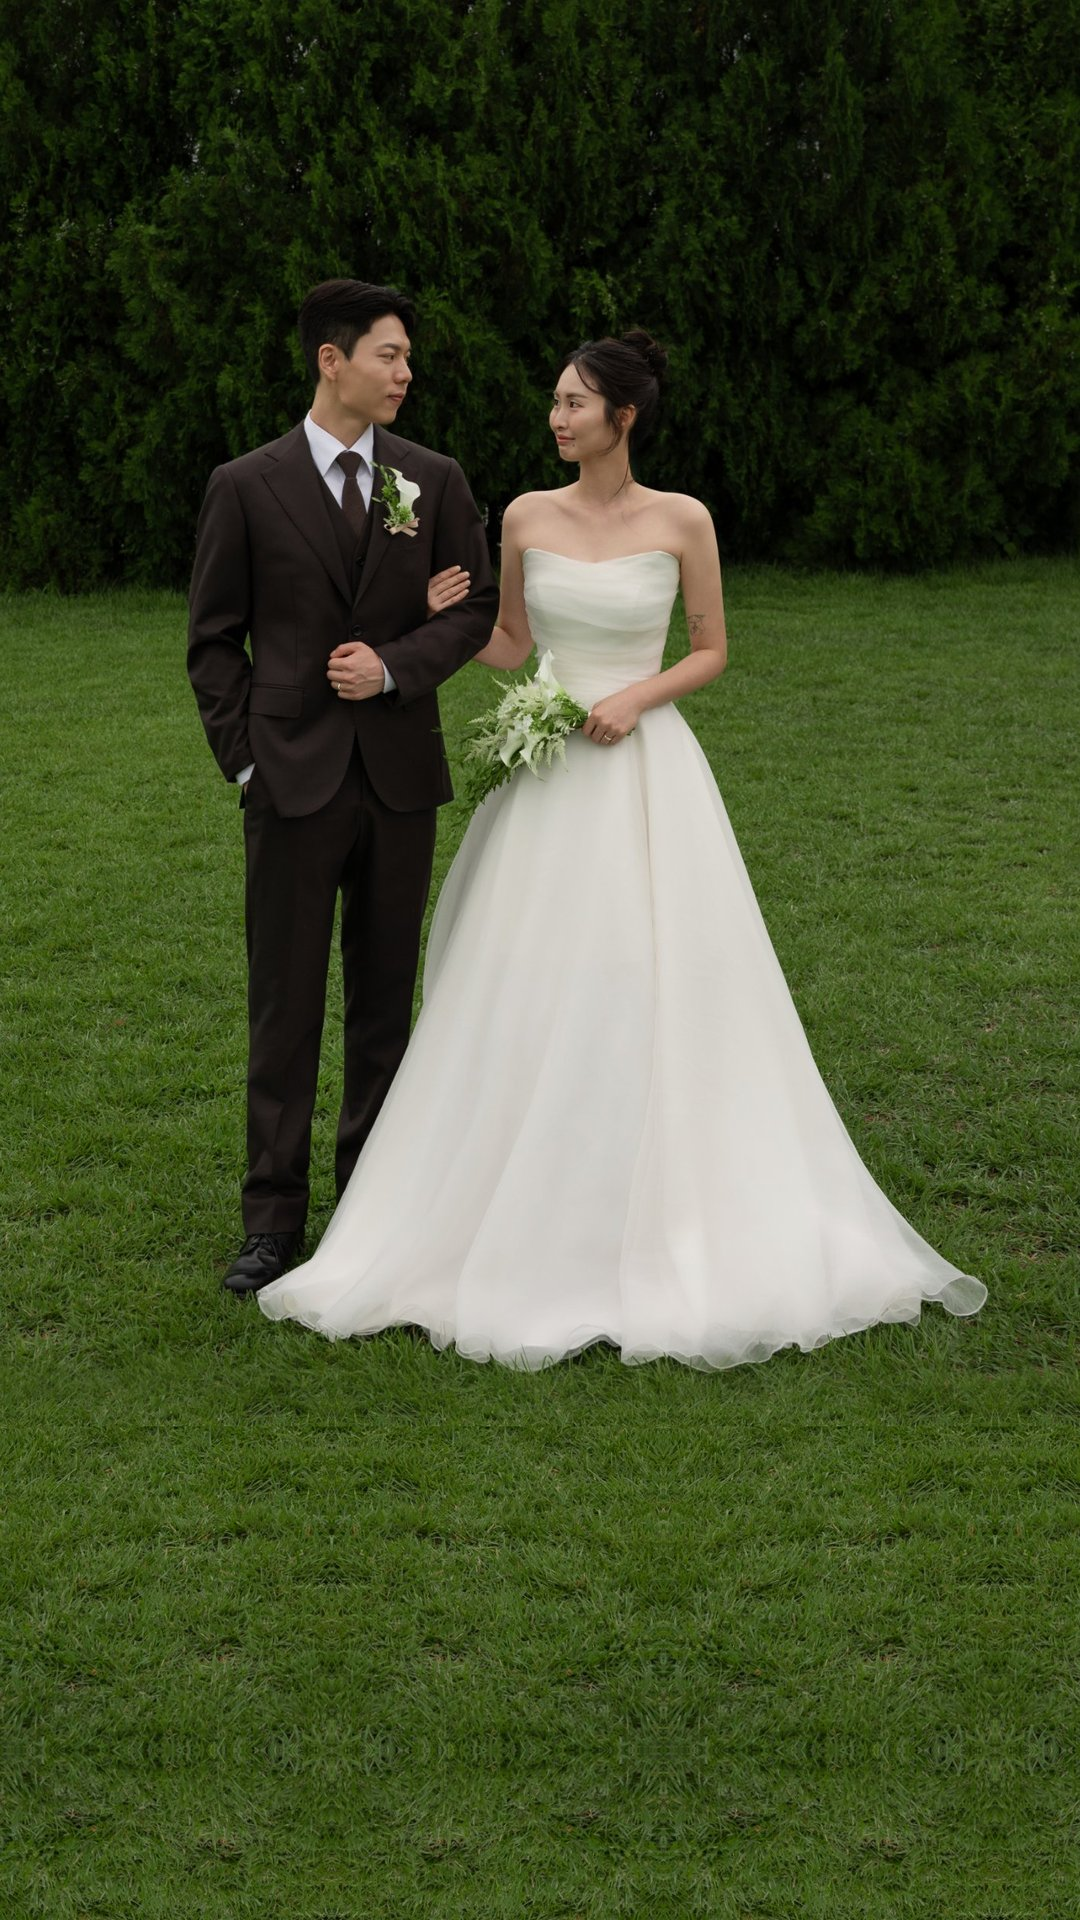
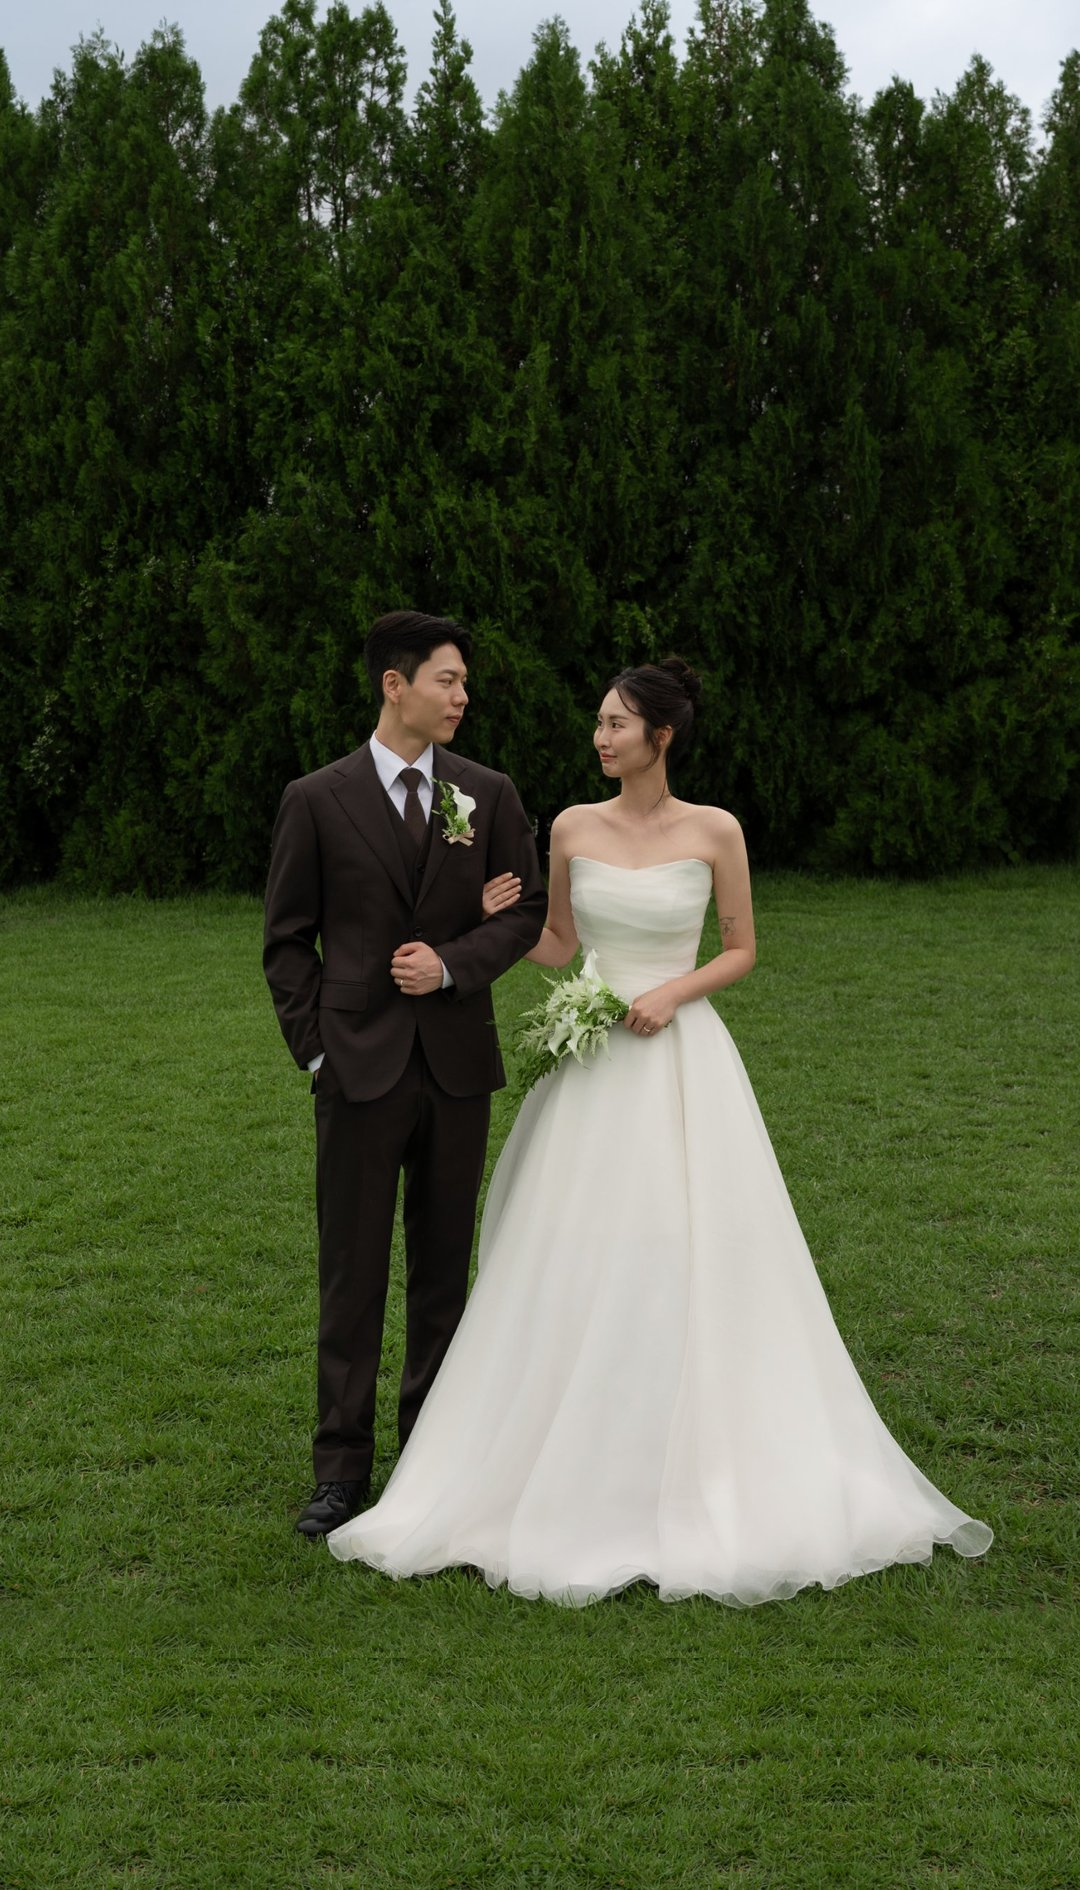
Add files via upload

diff --git a/index.html b/index.html
@@ -15,6 +15,7 @@
 <meta property="og:url" content="https://ghddodcks12-wq.github.io/jinwook-yejin/">
 <link rel="preconnect" href="https://fonts.googleapis.com">
 <link rel="preconnect" href="https://fonts.gstatic.com" crossorigin>
+<link rel="stylesheet" href="https://cdn.jsdelivr.net/gh/orioncactus/pretendard@v1.3.9/dist/web/static/pretendard.min.css">
 <link href="https://fonts.googleapis.com/css2?family=Poppins:wght@300;400;500&family=Crimson+Pro:ital,wght@0,400;1,400&family=Bona+Nova+SC&family=Mrs+Saint+Delafield&family=Gowun+Dodum&family=Noto+Sans+KR:wght@300;400;500;600&family=Noto+Serif+KR:wght@400;600&display=swap" rel="stylesheet">
 <style>
 :root{
@@ -96,21 +97,24 @@ body.intro-on{overflow:hidden}
 .mc .script span{display:block}
 .mc .script span+span{padding-left:22%}
 .mc .dates{display:flex;justify-content:space-between;font-family:var(--caps);font-size:15px;letter-spacing:.1em;margin-top:14px;padding:0 26px;text-shadow:0 0 1px rgba(90,45,0,.35),0 1px 4px rgba(90,45,0,.18)}
-.main-names{width:84%;margin-top:1%;filter:drop-shadow(0 1px 4px rgba(0,0,0,.18))}
-.main-script{width:106%;margin:0 0 0 -2%;filter:drop-shadow(0 1px 4px rgba(0,0,0,.16))}
-.main-date{font-family:var(--caps);font-size:clamp(17px,4.9vw,21px);letter-spacing:.04em;text-align:center;margin-top:2%;text-shadow:0 1px 4px rgba(0,0,0,.18)}
-.main.ready .main-names{transition-delay:.5s;transition-duration:1.6s}
+.t-wday{--src:url(assets/t-wedding-day.png);aspect-ratio:1300/352}
+.main-kicker{font-family:'Pretendard','Noto Sans KR',sans-serif;font-weight:400;font-size:clamp(11px,3.3vw,14px);letter-spacing:.9em;margin-right:-.9em;text-align:center;white-space:nowrap}
+.main-names{font-family:'Pretendard','Noto Sans KR',sans-serif;font-weight:500;font-size:clamp(24px,7vw,30px);letter-spacing:.02em;text-align:center}
+.main-script{width:102%;margin:5.5% 0 0 -1%;filter:drop-shadow(0 1px 4px rgba(0,0,0,.18))}
+.main-date{font-family:'Pretendard','Noto Sans KR',sans-serif;font-weight:400;font-size:clamp(19px,5.6vw,24px);letter-spacing:.02em;text-align:center;margin-top:1.5%;text-shadow:0 1px 4px rgba(0,0,0,.18)}
+.main.ready .main-kicker{transition-delay:.4s}
+.main.ready .main-names{transition-delay:1.3s}
 .main.ready .main-date{transition-delay:1.6s}
 .main.ready .main-script{transition-delay:.6s;transition-duration:1.8s}
 .snow{position:absolute;inset:0;z-index:1;pointer-events:none;overflow:hidden}
 .snow i{position:absolute;top:-8px;border-radius:50%;background:#FFF4D6;box-shadow:0 0 6px rgba(255,236,190,.8);opacity:0;animation:fall linear infinite}
 @keyframes fall{0%{transform:translate(0,0);opacity:0}10%{opacity:.85}90%{opacity:.7}100%{transform:translate(var(--dx),110vh);opacity:0}}
-.main{padding:0;position:relative;width:100%;aspect-ratio:9/16;overflow:hidden;color:#fff;background:#3a4433}
+.main{padding:0;position:relative;width:100%;aspect-ratio:1080/1890;overflow:hidden;color:#fff;background:#3a4433}
 .main-photo{position:absolute;left:0;right:0;bottom:0;top:auto;width:100%;height:var(--photo-h,114%);object-fit:cover;object-position:var(--focus,50% 50%);transform:scale(1.04);transition:transform 3.4s var(--ease),opacity 1s;opacity:0}
 .main.ready .main-photo{opacity:1;transform:none}
 .main::after{content:"";position:absolute;inset:0;pointer-events:none;
   background:linear-gradient(180deg,rgba(20,30,18,0) 70%,rgba(20,30,18,.12) 100%)}
-.mc{position:absolute;inset:0;z-index:2;display:flex;flex-direction:column;padding:5% 0 6%;color:var(--main-ink,#E38A3C);text-align:left;font-family:var(--en);text-shadow:0 1px 10px rgba(0,0,0,.18)}
+.mc{position:absolute;inset:0;z-index:2;display:flex;flex-direction:column;padding:5.5% 0 9.5%;color:var(--main-ink,#E38A3C);text-align:left;font-family:var(--en);text-shadow:0 1px 10px rgba(0,0,0,.18)}
 .mc .big{font-size:clamp(36px,10.6vw,44px);font-weight:300;line-height:1.08;letter-spacing:-.01em}
 .mc .tiny{font-size:10px;font-weight:500;letter-spacing:.06em}
 .mc .top{display:flex;justify-content:space-between;align-items:flex-end}
@@ -213,7 +217,7 @@ body.intro-on{overflow:hidden}
 /* ═════ 사진 배너 ═════ */
 .banner{padding:28px 20px 80px;background:var(--paper)}
 .banner .frame{height:300px;overflow:hidden}
-.banner img{width:100%;height:122%;object-fit:cover;object-position:50% 45%;will-change:transform}
+.banner img{width:100%;height:122%;object-fit:cover;object-position:50% 25%;will-change:transform}
 .banner .when{font-family:var(--en);font-size:14px;font-weight:400;color:var(--ink-2);line-height:1.75;margin-top:58px}
 .banner-brush{width:70%;margin-top:34px;color:var(--moss)}
 .banner-sub{font-family:var(--caps);font-size:12px;letter-spacing:.5em;margin:12px -.5em 0 0;color:var(--accent-ink)}
@@ -362,9 +366,10 @@ footer{font-family:var(--en);font-size:10px;letter-spacing:.2em;color:rgba(247,2
     <img class="main-photo" id="mainPhoto" alt="" fetchpriority="high">
     <div class="snow" id="snow" aria-hidden="true"></div>
     <div class="mc">
-      <span class="t-img t-names main-names" aria-hidden="true"></span>
+      <p class="main-kicker">WEDDING INVITATION</p>
+      <span class="t-img t-wday main-script" aria-hidden="true"></span>
       <div class="spacer"></div>
-      <span class="t-img t-wedding main-script" aria-hidden="true"></span>
+      <p class="main-names">Jinwook &amp; Yejin</p>
       <p class="main-date" data-f="wedding.mainDate"></p>
     </div>
     <h1 class="sr-only" style="position:absolute;width:1px;height:1px;overflow:hidden;clip:rect(0 0 0 0)"><span data-f="groom.name"></span> · <span data-f="bride.name"></span> 결혼합니다</h1>
@@ -405,7 +410,6 @@ footer{font-family:var(--en);font-size:10px;letter-spacing:.2em;color:rgba(247,2
     <p class="tel up">Tel. <a id="venueTel"></a></p>
     <button class="map up" type="button" id="openMap" aria-label="약도 크게 보기">
       <img src="assets/route-map.jpg" alt="약도: 충정로역 4번 출구 또는 서울역 15번 출구에서 청파로를 따라 걸어오면 브라운스톤서울 3층 아벤티움 서울. 서소문역사공원 옆" loading="lazy" width="1200" height="1200">
-      <span>약도 크게 보기</span>
     </button>
     <div class="navs up">
       <a id="naverMap" target="_blank" rel="noopener"><span class="mk" style="background:#03C75A">N</span>네이버지도</a>
@@ -580,11 +584,11 @@ const CONFIG = {
     scriptTop: 'Getting',           // 사진 아래쪽 손글씨 문구 두 줄
     scriptBottom: 'Married',
     snow: 0,                        // 떠다니는 햇살 입자 수 (0이면 끔)
-    color: '#F0AE1E',               // 메인 손글씨·날짜 색
+    color: '#F8F1B6',               // 메인 손글씨·날짜 색
     photoHeight: '100%'             // 100%보다 크면 사진 위쪽을 잘라 인물을 키움
   },
   groom: { name: '정진욱', short: '진욱', enFull: 'Jung Jin-wook', father: '정기인', mother: '우호진', rel: '아들', phone: '010-2062-5069',
-           accounts: [{ who: '신랑', name: '정진욱', bank: '카카오뱅크', num: '3333122163556' }] },   // 실제 계좌 확인 후 수정
+           accounts: [{ who: '신랑', name: '정진욱', bank: '기업은행', num: '01020625069' }] },   // 실제 계좌 확인 후 수정
   bride: { name: '엄예진', short: '예진', enFull: 'Eom Ye-jin', father: '엄상준', mother: '박지혜', rel: '딸', phone: '010-3609-7478',
            accounts: [{ who: '신부', name: '엄예진', bank: '카카오뱅크', num: '3333122163556' }] },
   wedding: {
@@ -617,11 +621,11 @@ const CONFIG = {
   notices: [
     { tab: '식사 안내', title: '프리미엄 뷔페', img: 'assets/info-food.jpg', alt: '뷔페 음식을 접시에 담는 하객들',
       body: '아벤티움은 하객 한 분 한 분께 최상의 식사를 제공할 수 있도록 노력하고 있습니다.\n모든 음식은 정성을 다해 최고급 식재료로 엄선하여 준비됩니다.' },
-    { tab: '주차 안내', title: '주차 안내', img: 'assets/info-parking.jpg', alt: '브라운스톤서울 지하 주차장',
+    { tab: '주차 안내', title: '주차 안내', img: 'assets/info-parking.jpg?v=2', alt: '지하 주차장',
       body: '본관 주차장(브라운스톤서울)과 별관 주차장(서소문 성지 역사박물관)은 서로 마주 보고 있습니다.\n본관 주차장으로 오시면 안내해 드립니다.\n\n최초 120분 무료\n추가 60분당 5,000원 (최대 30,000원)' }
   ],
   closing: { message: '저희의 새로운 시작을<br>함께 축복해 주셔서 감사합니다.', sig: 'JINWOOK & YEJIN' },
-  bannerPhoto: 'assets/p1.jpg',
+  bannerPhoto: 'assets/banner.jpg',
   galleryFirst: 9,       // 처음에 보여 줄 사진 수, 나머지는 '더보기'
   photos: [
     { src: 'assets/p1.jpg', thumb: 'assets/p1_s.jpg', pos: '50% 38%', alt: '초록 수풀 앞에 나란히 서서 웃는 신랑과 신부' },
